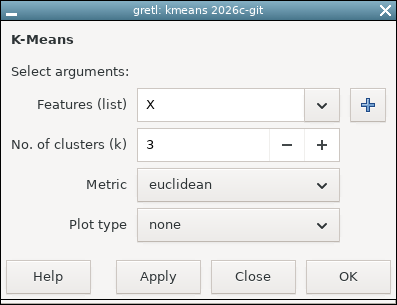
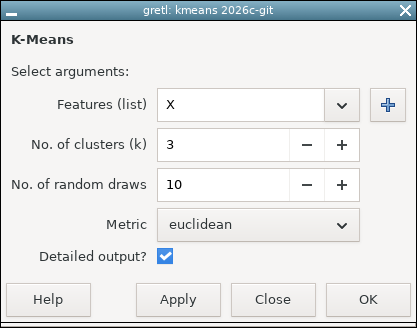
more on the kmeans doc

Changed region(s): [[0.0, 0.2656, 0.9975, 1.0], [0.0, 0.0, 0.9975, 0.1475], [0.0302, 0.2066, 0.3325, 0.2656]]

diff --git a/addons/kmeans/doc/kmeans.tex b/addons/kmeans/doc/kmeans.tex
@@ -31,7 +31,7 @@
 
 \title{The \textsf{kmeans} addon}
 \author{Artur Tarassow and Allin Cottrell}
-\date{June 23, 2026}
+%\date
 
 \begin{document}
 \maketitle
@@ -44,8 +44,9 @@ data using the $K$-means algorithm.  This algorithm divides a set of $m$
 observations, each of dimension $n$, into disjoint clusters,
 $C_i, i=1,\dots,K$. Each cluster is defined by its centroid, an
 $n$-vector comprising the means of the variables for the observations it
-includes. Useful references include \citet{hartigan-wong79} and
-\citet[ch.\ 12]{ISL2e}.
+includes. In this context the variables that constitute the $n$
+dimensions of the data are often called features.  Useful references
+include \citet{hartigan-wong79} and \citet[ch.\ 12]{ISL2e}.
 
 The aim of $K$-means is to minimize a loss function, namely the total
 distance between the data-points and their associated cluster
@@ -97,25 +98,25 @@ found.\footnote{It's generally reckoned that mounting a direct search
 than others, and the stopping point of the algorithm depends on its
 starting point.
 
-Our recommendation is to start with a deterministic initializer and
-follow up with several random draws, and selecting the best solution.
-For built-in \texttt{kmeans} two deterministic initializers are
-supported, as follows:
+Our recommendation is to start with a deterministic initializer, follow
+up with several random draws, and select the best solution.  For
+built-in \texttt{kmeans} two deterministic initializers are supported,
+as follows:
 \begin{itemize}
- \item Principal Components (code \texttt{pc}): the data points are
+\item Principal Components (code \texttt{pc}): the data points are
   sorted by value of the first Principal Component of the
-  $n$-dimensional data, and again evenly spaced points are selected from
+  $n$-dimensional data, then $K$ evenly spaced points are selected from
   the sorted array.
-\item Hartigan--Wong (code \texttt{hw}): the method suggested in the last
-  paragraph of their 1979 paper. The data points are sorted by Euclidean
-  distance from the global centroid, then $K$ evenly spaced points are
-  selected from the sorted array.
+\item Hartigan--Wong (code \texttt{hw}): the method suggested in the
+  last paragraph of their 1979 paper. The data points are sorted by
+  Euclidean distance from the global centroid, and again evenly spaced
+  points are selected.
 \end{itemize}
 
 At present \dtk{kmeans_fit} supports \texttt{pc} but not \texttt{hw}.
 If $m$ and/or $n$ are very large these initializers will be relatively
-expensive computationally. You can prevent their use them by passing
-\texttt{none} for the initializer option (see below for details).
+expensive computationally. You can prevent their use by passing
+\texttt{random} for the initializer option (see below for details).
 
 The number of randomized starting points is controlled by an
 \dtk{n_draws} option, with a default value of 8. Some researchers
@@ -125,54 +126,102 @@ deterministic initializer you can set \dtk{n_draws} to 0.
 \section{Scripting usage}
 \label{sec:scripting}
 
+This section is by way of a brief ``how to''. Full details on the
+functions mentioned below can be found in section~\ref{sec:funcref}.
 
+The first function you'll need is either built-in \texttt{kmeans} or
+(from the addon) \dtk{kmeans_fit}. These are very similar except that
+\texttt{kmeans} is specialized to Euclidean distance and uses a fast
+algorithm. In both cases you supply the data as a list of
+series,\footnote{In the case of \texttt{kmeans} a matrix is acceptable
+  instead of a list.}  specify how many clusters you want, and perhaps
+supply some optional settings. You get back a bundle whose primary
+contents are a series (or column vector), \dtk{cluster_id}, holding the
+ID number of the cluster to which each data point belongs, and a matrix,
+\texttt{centroids}, holding the cluster centroids.
 
+Here's a simple example using R. A. Fisher's famous \textsf{iris}
+dataset and mostly accepting the default values of the settings
+supported by these functions, apart from adding a little verbosity.
+\begin{code}
+open iris.gdt
+list X = 1 .. 4
+bundle opts = _(verbosity = 1)
 
-\section{Plotting}
-\label{sec:plots}
+bundle b = kmeans(X, 3, opts)
+# or
+include kmeans.gfn
+b = kmeans_fit(X, 3, opts)
+\end{code}
 
+You can get a printout of the basic information contained in the bundles
+returned by these functions using \dtk{kmeans_summary}: just pass the
+bundle as argument.
 
-\subsection{Silhouettes}
+Then you may want to visualize the clustering and assess its
+effectiveness. Three plotting functions are available for this job.
 
-The silhouette score \citep{Rousseeuw87} for an observation is a
-composite measure of its similarity to the members of its own cluster
-and to the members of other clusters. These scores are by construction
-in $[-1,1]$, where 1 is ``best'' (the point is firmly located in its own
-cluster) and $-1$ is ``worst'' (the point appears to belong elsewhere).
-Values near 0 indicate overlapping clusters.
+The \texttt{PairPlot} function (supplied by the addon of the same name)
+lets you visualize the relationship between each pair of features, with
+cluster membership indicated by specific colors and point-types.
+Here's how usage of that function could go:
+\begin{code}
+include PairPlot.gfn
+bundle plot_opts = _(centroid = "mean")
+PairPlot(X, b.cluster_id, plot_opts)
+\end{code}
+Again several options are available; here we just exercise one, to
+display the cluster centroids along with the data points.
 
-TODO: talk about the silhouette plotting function.
+The \textbf{silhouette value} \citep{Rousseeuw87} for an observation is
+a composite measure of its similarity to the members of its own cluster
+and to the members of its nearest neighboring cluster. These values are
+by construction in $[-1,1]$, where 1 is ``best'' (the point is firmly
+located in its own cluster) and $-1$ is ``worst'' (the point appears to
+belong elsewhere).  Values near 0 indicate overlapping clusters.  The
+\dtk{kmeans_sil_plot} function plots these points, with a separate panel
+for each cluster, along with the overall mean silhouette value. You pass
+a bundle obtained via \texttt{kmeans} or \dtk{kmeans_fit} along with the
+list of features. If the clustering is highly effective most of the
+points should be in the positive zone. Example:
+\begin{code}
+kmeans_sil_plot(b, X)
+\end{code}
+
+In the $K$-means context a \textbf{scree plot} provides a perspective on
+whether the right number of clusters has been specified. For 1 to some
+chosen maximum value of $K$ the minimized within-cluster distance is
+computed and plotted against number of clusters. The idea is to look for
+a so-called ``elbow'' where the slope of the curve becomes markedly less
+steep. Accepting the default values of the associated options, this plot
+can be produced as follows.
+\begin{code}
+kmeans_screeplot(kmeans_scree(X, 5))
+\end{code}
 
 \section{GUI access}
 \label{sec:gui}
 
 $K$-means functionality can be accessed via the item \textsf{K-Means}
-under the \textsf{View} menu in gretl's main window. The dialog box
-is shown in Figure~\ref{fig:dialog}.
+under the \textsf{View} menu in gretl's main window. The dialog box is
+shown in Figure~\ref{fig:dialog}.  On clicking \textsf{OK} you get a
+results window as shown in Figure~\ref{fig:results}. The ``Graph''
+button in the toolbar pops down a menu giving access to the three sorts
+of plot described in section~\ref{sec:scripting}.
 
-\begin{figure}[htbp]
+\begin{figure}[p]
   \centering
   \includegraphics[scale=0.65]{kmeans_dialog.png}
   \caption{K-Means dialog}
   \label{fig:dialog}
 \end{figure}
 
-Pulling down the \textsf{Plot type} selector reveals three choices:
-``Scree'', ``Cluster (pairs)'' and ``Silhouette''.
-\begin{enumerate}
-\item In the ``Scree'' case the number of clusters value is taken as a
-  maximum, $K^*$ (and you'll probably want to make it larger than the
-  default of 3). The $K$-means problem is solved for $K=1,\dots,K^*$ and
-  you are shown the relationship between number of clusters and the
-  minimized value of within-cluster distance.
-\item In the ``Cluster (pairs)'' case you get a grid holding pairwise
-  plots of the $n$ features, factorized by their estimated cluster
-  membership.
-\item In the ``Silhouette'' case you get a plot for each cluster,
-  showing the Silhouette score for each point (ranked from best to worst
-  in terms of the solidity of its assignment to the cluster) as well as
-  the average across all clusters.
-\end{enumerate}
+\begin{figure}[p]
+  \centering
+  \includegraphics[scale=0.65]{kmeans_results.png}
+  \caption{K-Means results window}
+  \label{fig:results}
+\end{figure}
 
 \clearpage
 
@@ -243,9 +292,8 @@ series kmeans_predict (const list xlist, const bundle Model)
 \end{verbatim}
   The first argument should be a list of features, as in
   \dtk{kmeans_fit}, and the second should be a bundle obtained from
-  \dtk{kmeans_fit}.  The series that is returned holds the predicted
-  cluster ID for each observation of \texttt{xlist} in the current
-  sample range.
+  \dtk{kmeans_fit}.  The returned series holds the predicted cluster ID
+  for each observation of \texttt{xlist} in the current sample range.
 \end{funcdoc}
 
 \begin{funcdoc}
@@ -255,17 +303,17 @@ void kmeans_summary (const bundle Model)
   Prints summary information given a bundle obtained from \dtk{kmeans_fit}.
 \end{funcdoc}
 
-\begin{funcdoc}
-\begin{verbatim}
-void kmeans_plot (const list xlist, const bundle Model)
-\end{verbatim}
-  Produces a scatter plot for each pair of features in xlist, factorized
-  by the \dtk{cluster_id} series in \texttt{Model}
+% \begin{funcdoc}
+% \begin{verbatim}
+% void kmeans_plot (const list xlist, const bundle Model)
+% \end{verbatim}
+%   Produces a scatter plot for each pair of features in xlist, factorized
+%   by the \dtk{cluster_id} series in \texttt{Model}
 
-  ... CLARIFY!  self: bundle, Bundle for manipulating the
-  plot. [Here you can also pass options accepted by the
-  PairPlot package.]
-\end{funcdoc}
+%   ... CLARIFY!  self: bundle, Bundle for manipulating the
+%   plot. [Here you can also pass options accepted by the
+%   PairPlot package.]
+% \end{funcdoc}
 
 \begin{funcdoc}
 \begin{verbatim}
@@ -290,7 +338,7 @@ void kmeans_screeplot (matrix scree, string filename[null], bundle opts[null])
   the most appropriate number of clusters.
 
   The first argument should be obtained from \dtk{kmeans_scree}. If the
-  second argument is given it should be the name of a file to which
+  second argument is given it should be the name of a PNG file to which
   the graphic should be written (by default it is shown on-screen). The
   last argument \dots TBD
 \end{funcdoc}
@@ -313,25 +361,14 @@ matrix kmeans_crosstab (series cluster_id, series actual)
   gretl's \texttt{xtab} command, and is also returned in matrix form.
 \end{funcdoc}
 
+
+
 %% WORK needed below here!!
 
 \bibliographystyle{gretl}
 \bibliography{gretl}
 
 \end{document}
-
-\begin{funcdoc}
-\begin{verbatim}
-kmeans_screeplot (list xlist, int Kmax, string filename[null], bundle self[null])
-\end{verbatim}
-  This function produces a so-called scree plot for the $K$-means
-  algorithm. The plot shows total within-cluster distance as a
-  function of the number of assumed clusters, from 1 to \texttt{Kmax}.
-  Adding a cluster is bound to reduce within-cluster distance, but if
-  the plot shows an ``elbow'' where the slope becomes markedly flatter
-  this gives an informal indication of the most appropriate number of
-  clusters.
-\end{funcdoc}
 
 **screeplotArguments:**
 
@@ -345,14 +382,12 @@ kmeans_screeplot (list xlist, int Kmax, string filename[null], bundle self[null]
     * `fontsize`: scalar, Font size for the plot.
     * `linewidth`: scalar, Line width for the plot.
 
-**Return:** Matrix with two columns: the first column is the number of clusters, and the second column is the within-cluster sum of squares (*inertia*). Each row corresponds to a different number of clusters.
+    Return: Matrix with two columns: the first column is the number of
+    clusters, and the second column is the within-cluster sum of squares
+    (*inertia*). Each row corresponds to a different number of clusters.
 
 
-## kmeans_sil_samples
-
-```
 kmeans_sil_samples (bundle Model, list xlist)
-```
 
 Compute the silhouette sample value for each observation in the fitted
 kmeans model. The silhouette value measures how similar an observation
@@ -367,12 +402,7 @@ is to its own cluster compared to other clusters.
 
 **Return:** Series holding the silhouette value for each observation.
 
-
-## kmeans_sil_score
-
-```
 kmeans_sil_score (bundle Model, list xlist, bool global[TRUE])
-```
 
 Compute the mean silhouette score for all samples in the fitted kmeans
 model if the optional parameter `global` is set to `TRUE` (default). The
@@ -395,11 +425,7 @@ separately.
 **Return:** Scalar value representing the mean silhouette score if `global` is set to TRUE, otherwise a matrix is returned  (columns refer to the cluster and the score).
 
 
-## kmeans_sil_plot
-
-```
 kmeans_sil_plot (bundle Model, list xlist, bundle opts[null])
-```
 
 Create a silhouette plot for the fitted kmeans model. Each cluster is
 plotted separately, showing the silhouette value for each